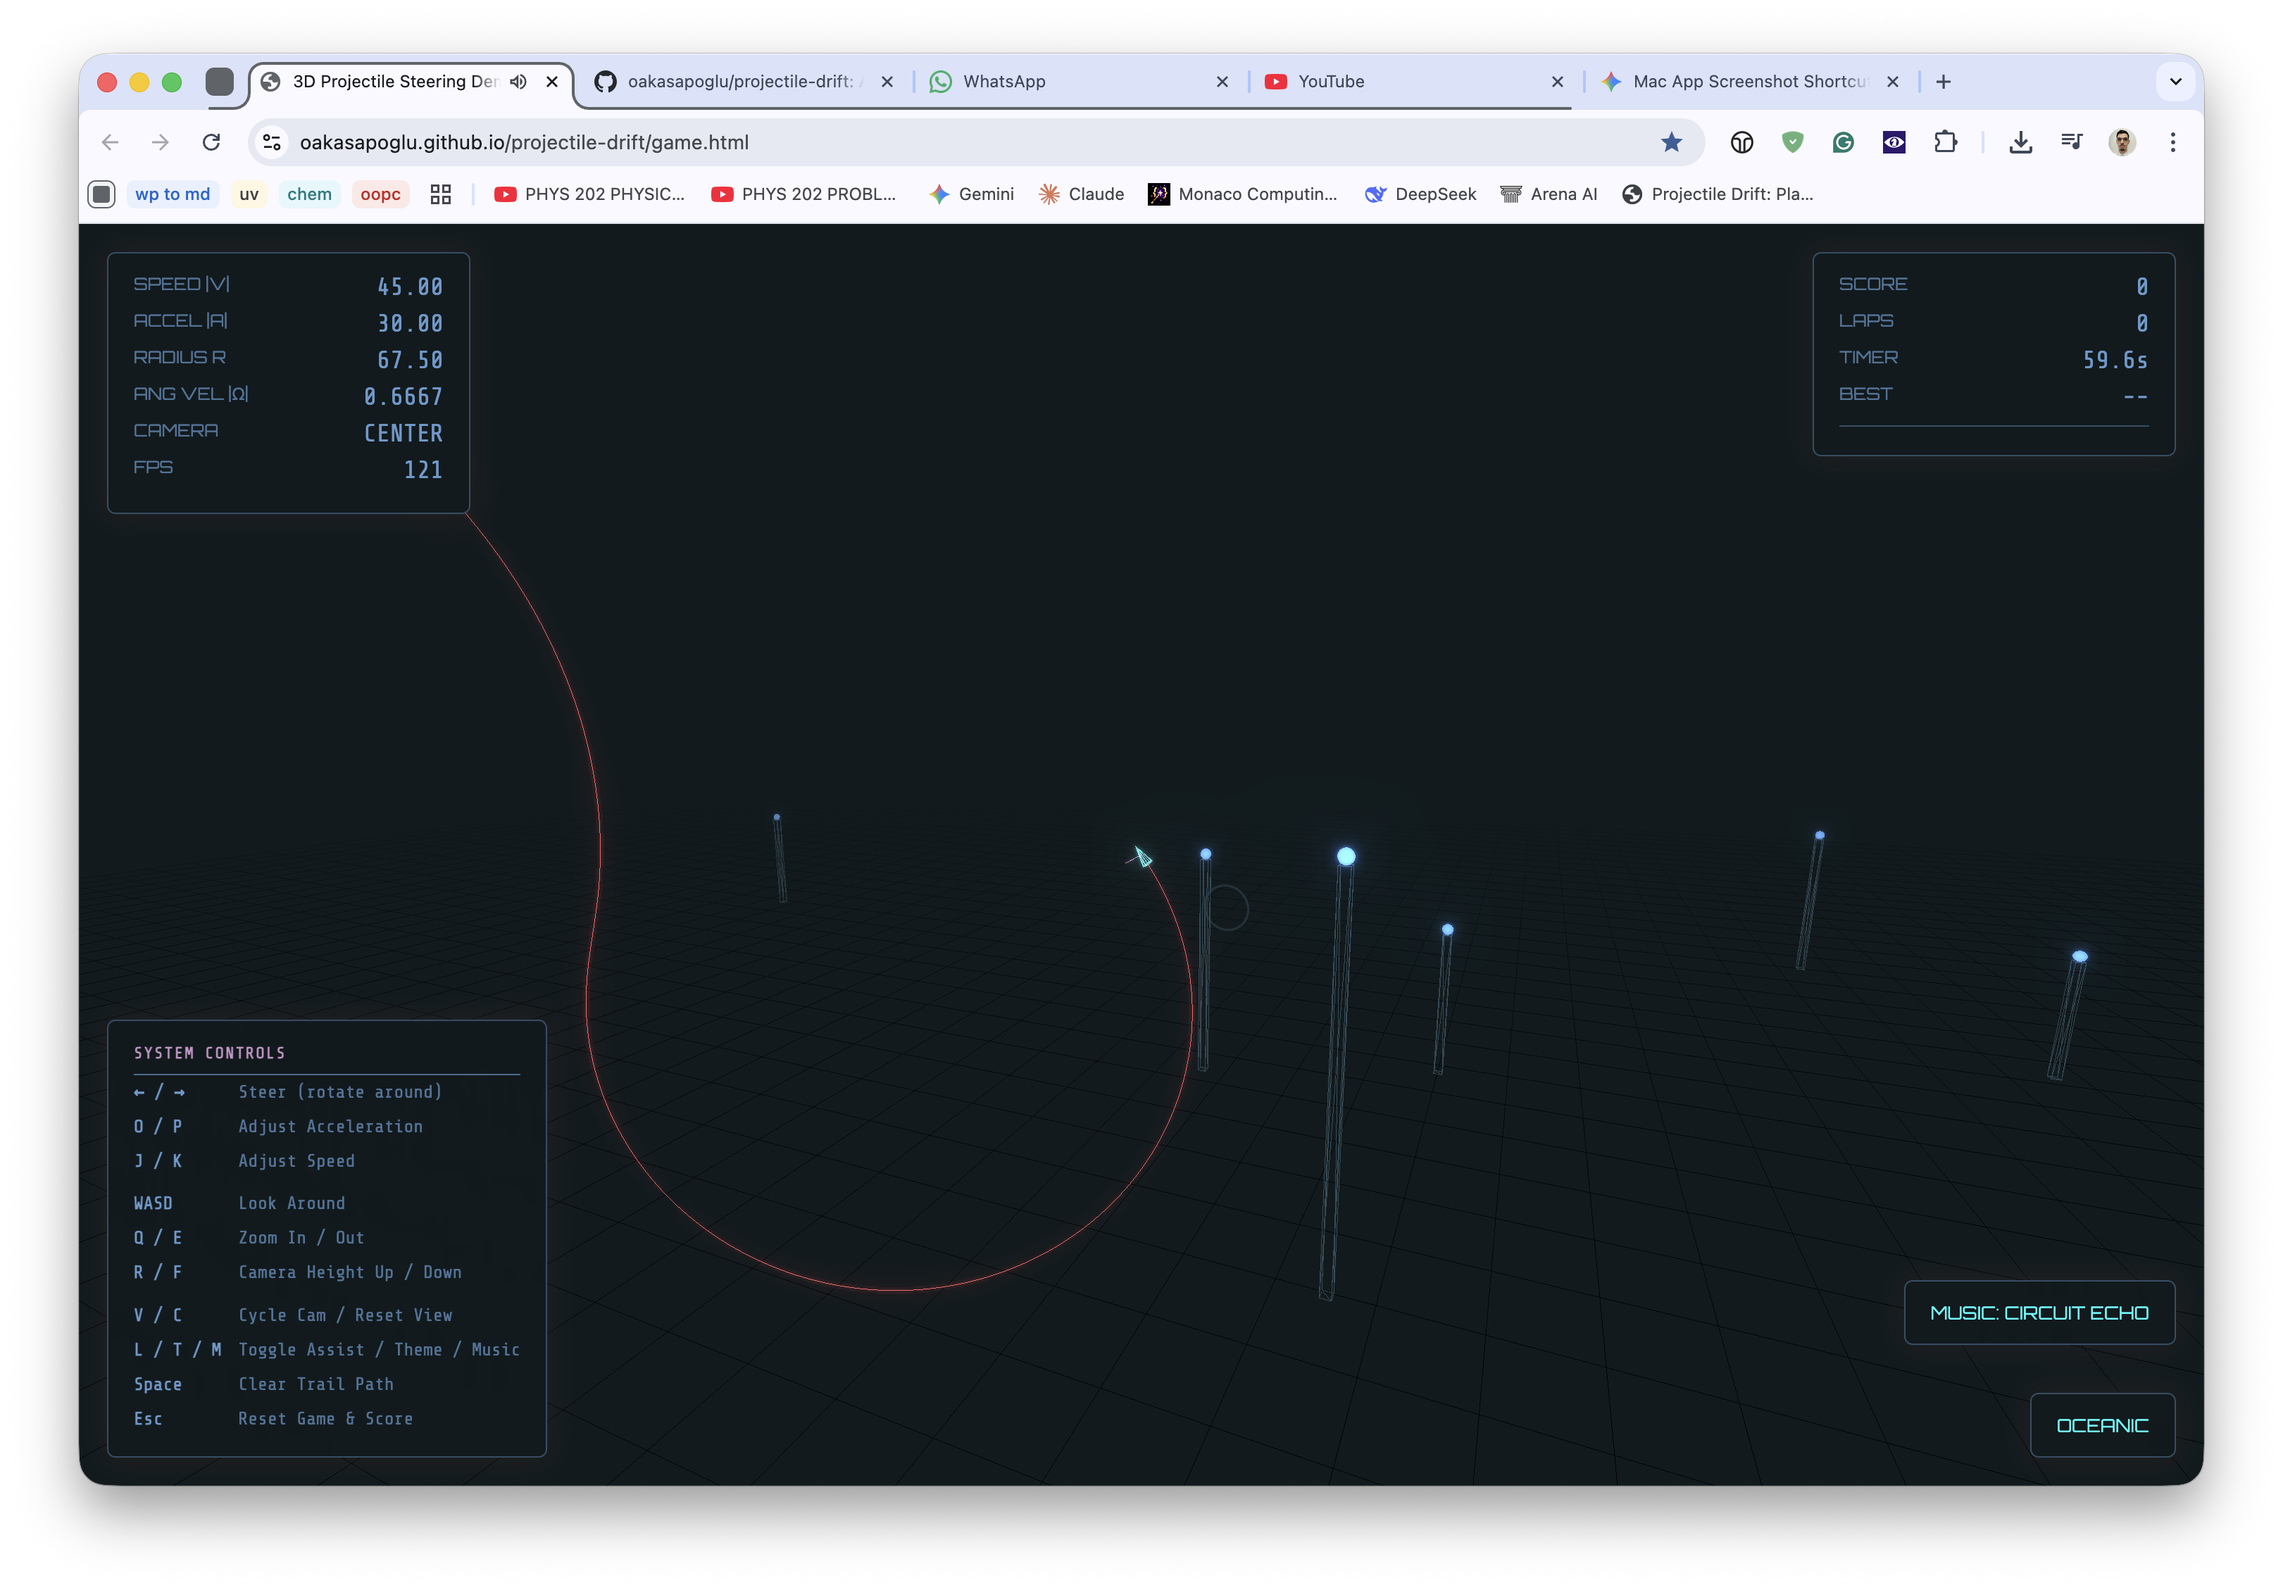
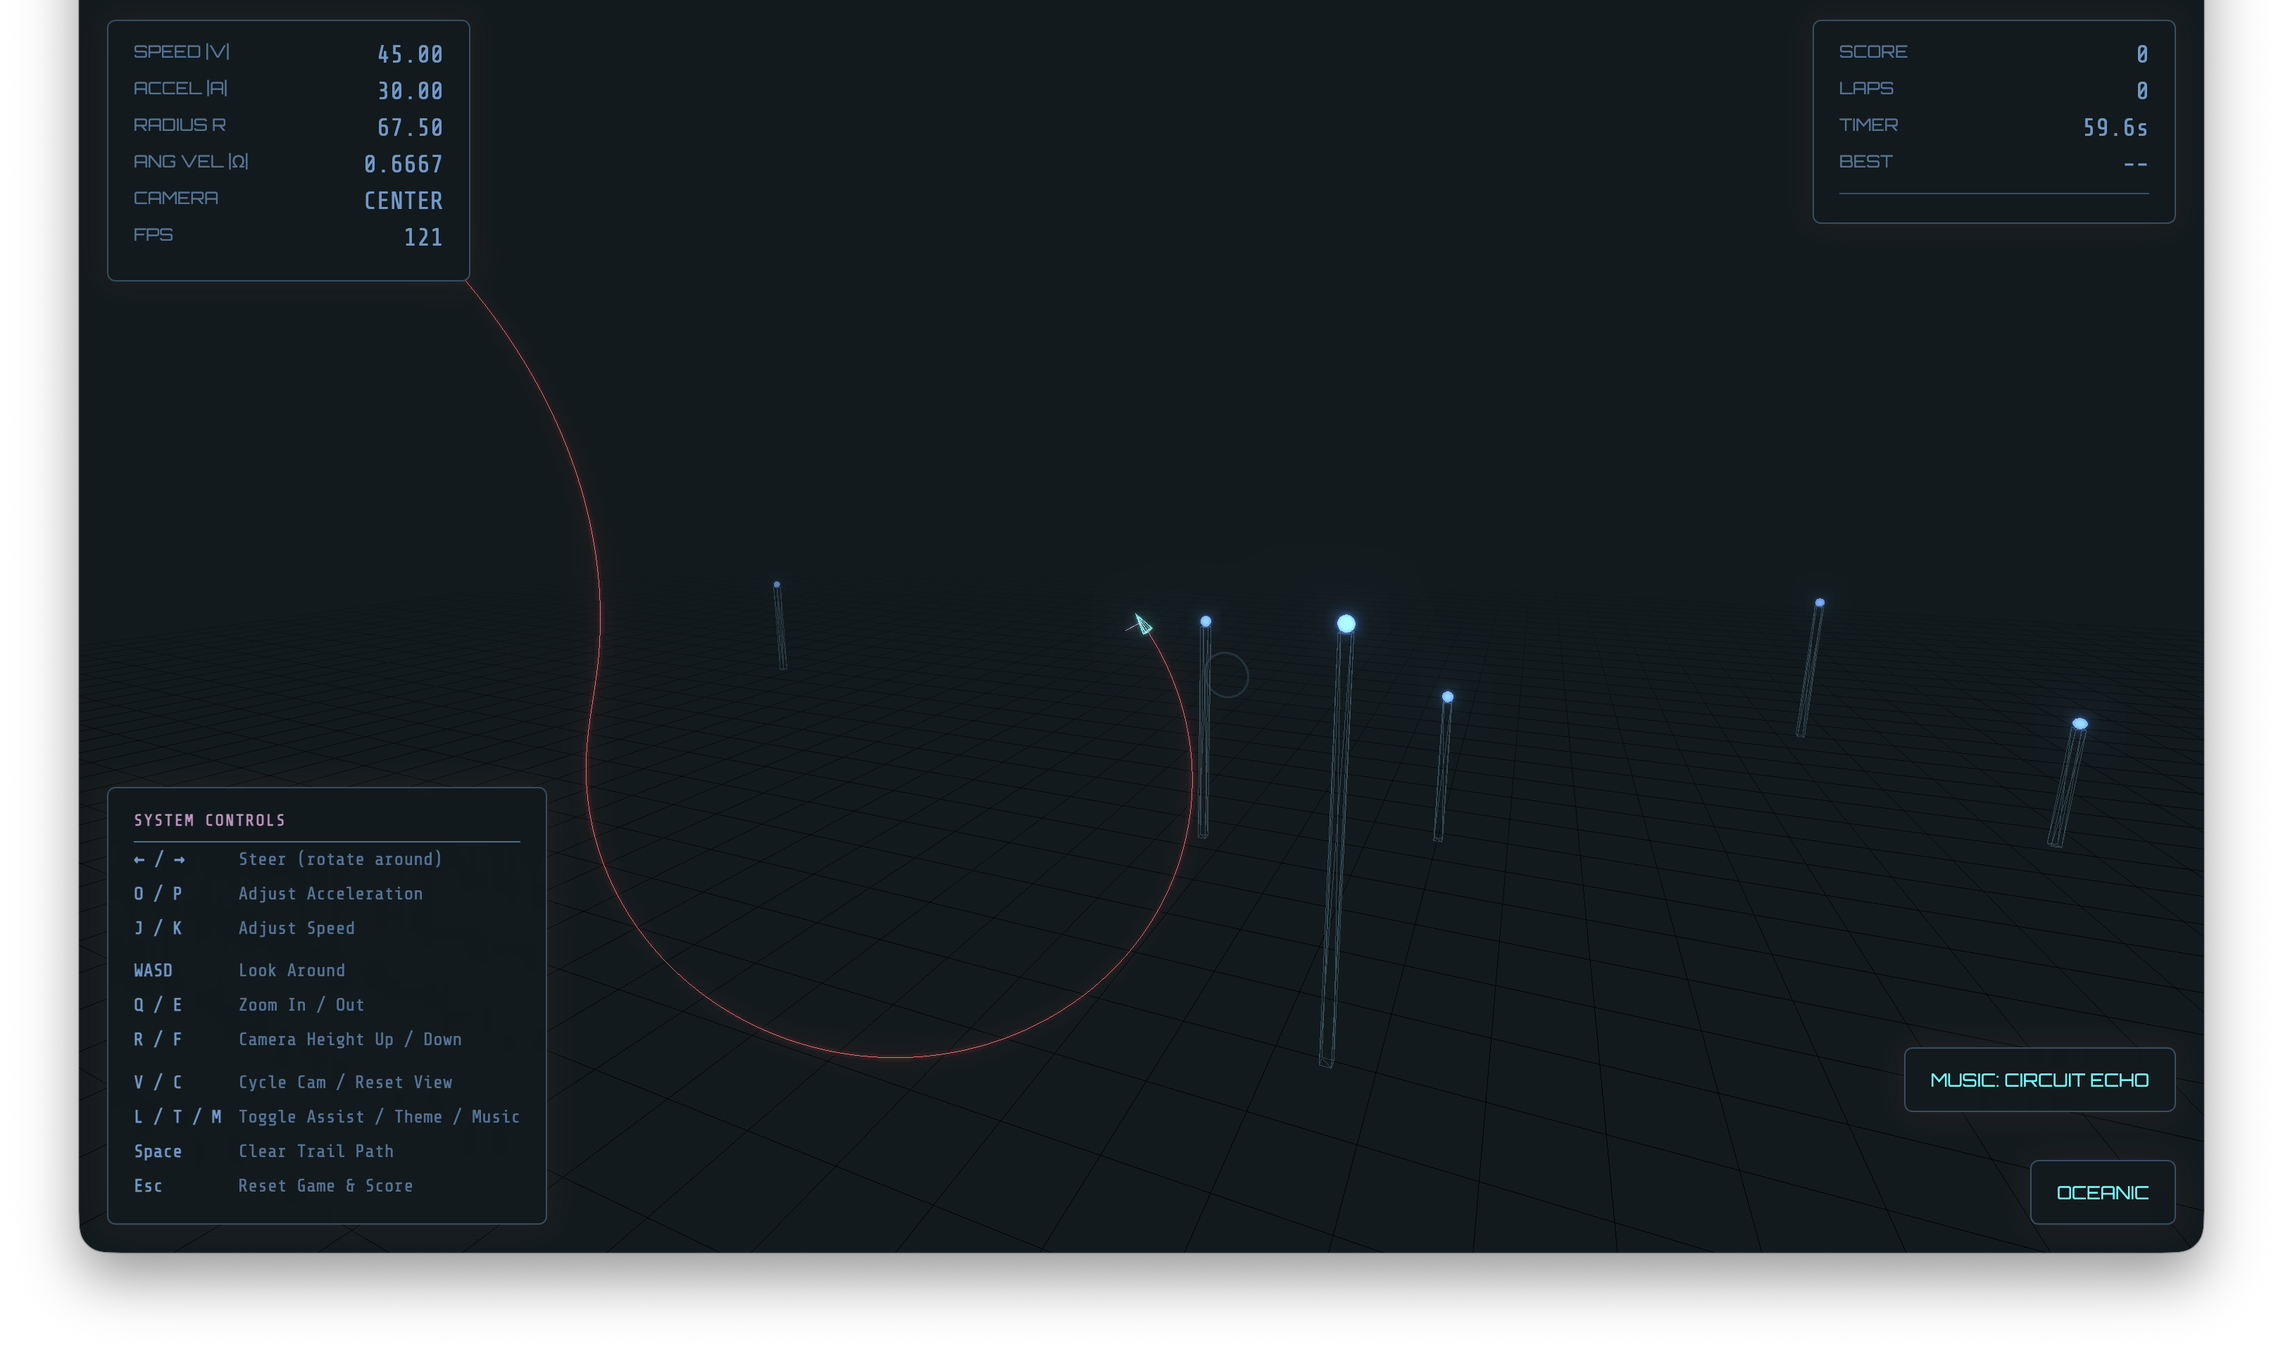
images cropped

diff --git a/screenshots/crop.py b/screenshots/crop.py
@@ -1,0 +1,45 @@
+import sys
+import os
+from PIL import Image
+
+# 1. Check if enough arguments were provided
+if len(sys.argv) < 3:
+    print("Error: Missing arguments.")
+    print("Usage: python3 script.py <file_path> <top_crop_pixels>")
+    sys.exit(1)
+
+# 2. Assign arguments
+file_path = sys.argv[1]
+try:
+    top_crop_value = int(sys.argv[2])
+except ValueError:
+    print("Error: The top crop value must be an integer.")
+    sys.exit(1)
+
+# 3. Open image and calculate crop
+if not os.path.exists(file_path):
+    print(f"Error: File '{file_path}' not found.")
+    sys.exit(1)
+
+img = Image.open(file_path)
+width, height = img.size
+
+# Set coordinates
+left = 0
+top = top_crop_value
+right = width
+bottom = height
+
+# Execute crop
+cropped_img = img.crop((left, top, right, bottom))
+
+# 4. Generate the save name 
+# This follows your pattern: [original_name]processed_screenshot.png
+save_name = file_path + "processed_screenshot.png"
+cropped_img.save(save_name)
+
+# 5. Output results
+print(f"File processed: {file_path}")
+print(f"Original size:  {width}x{height}")
+print(f"New size:       {cropped_img.size[0]}x{cropped_img.size[1]}")
+print(f"Saved as:       {save_name}")
